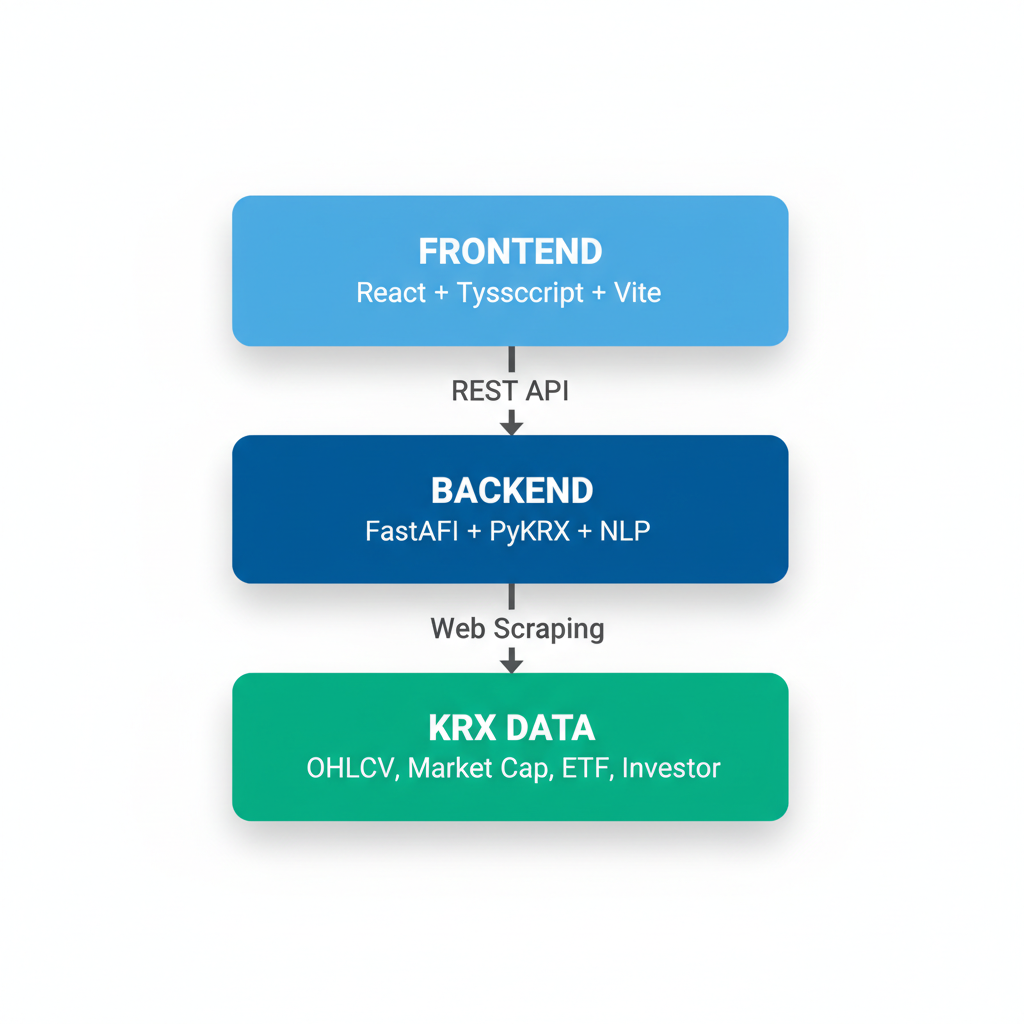
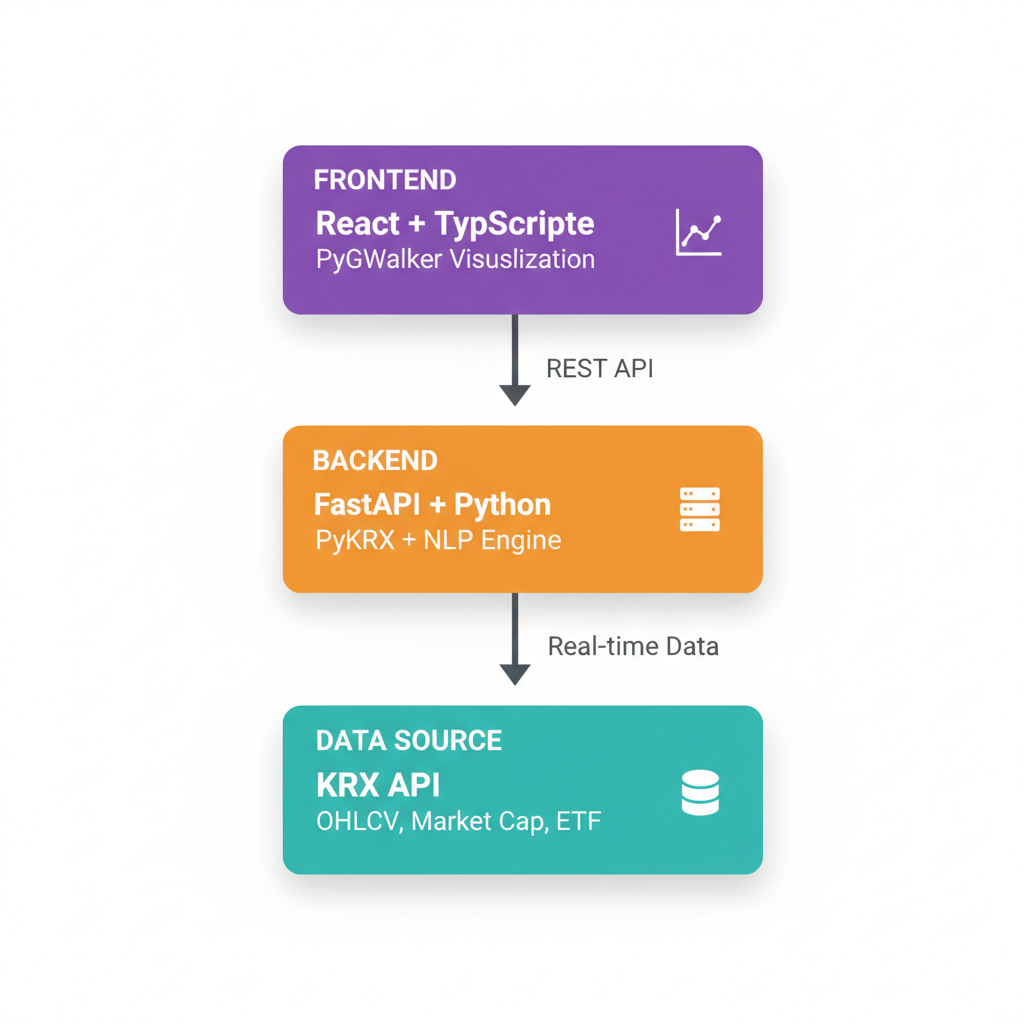
refactor(docs): redesign all diagrams to match actual project UI
- Hero banner: violet-to-orange gradient with Korean subtitle
- Architecture: correct tech stack (React+PyGWalker, FastAPI+PyKRX)
- Data flow: NLP query → PyKRX → visualization pipeline
- UI mockup: light theme with violet accents, bar chart, data table
- Features grid: 6 cards matching actual project features

Prompts updated to use scene descriptions (Google best practice)
for improved text rendering quality with Gemini 2.5 Flash Image.

diff --git a/scripts/generate-diagrams.py b/scripts/generate-diagrams.py
@@ -1,7 +1,13 @@
 #!/usr/bin/env python3
 """
 KRX Data Explorer - 고품질 다이어그램 생성
-Gemini 2.5 Flash API 사용 (텍스트 렌더링 최적화)
+Gemini 2.5 Flash Image API 사용 (텍스트 렌더링 최적화)
+
+실제 프로젝트 UI 반영:
+- PyGWalker (Graphic Walker) 기반 데이터 시각화
+- 바이올렛/오렌지 테마 (violet-50, amber-500)
+- AI 자연어 질의 기능
+- KRX 주식 데이터 실시간 분석
 
 참고: https://developers.googleblog.com/en/how-to-prompt-gemini-2-5-flash-image-generation-for-the-best-results/
 """
@@ -11,11 +17,11 @@ import base64
 import os
 from pathlib import Path
 
-# Gemini API 설정 - 2.5 Flash로 업그레이드 (텍스트 렌더링 향상)
+# Gemini API 설정 - 2.5 Flash Image (텍스트 렌더링 향상)
 genai.configure(api_key=os.environ.get('GEMINI_API_KEY'))
 
 model = genai.GenerativeModel(
-    model_name='gemini-2.5-flash-image',  # 이미지 생성 전용 모델
+    model_name='gemini-2.5-flash-image',
     generation_config={
         'response_modalities': ['TEXT', 'IMAGE']
     }
@@ -39,21 +45,23 @@ def save_image(response, output_path):
     return False
 
 # ============================================================
-# 1. 히어로 배너 (프로젝트 소개) - Gemini로 생성
+# 1. 히어로 배너 (프로젝트 소개)
 # ============================================================
 print("1. Generating hero banner...")
 hero_prompt = """
-Create a professional, modern hero banner for a fintech data platform.
+Create a premium, modern hero banner for a Korean stock market data visualization platform.
 
-Scene description: A sleek, dark-themed financial dashboard interface floating in a deep navy blue digital space. The background has a subtle gradient from dark navy (#0a1628) to slightly lighter navy (#1a2744). Abstract geometric patterns of hexagons and circuit-like lines glow softly in electric blue (#3b82f6) in the background.
+Scene description: A wide landscape banner with a sophisticated gradient background flowing from soft lavender-violet (#8b5cf6) on the left to warm amber-orange (#f59e0b) on the right. The gradient should be smooth and elegant, reminiscent of a sunset over a financial district.
 
-In the center, display the title "KRX Data Explorer" in large, bold, clean white sans-serif typography (similar to Inter or SF Pro Display font). Below it, show the subtitle "Korea Exchange Stock Data Platform" in smaller, light gray text.
+In the center-left area, display the main title "KRX Data Explorer" in large, bold, crisp white sans-serif typography. The text should be perfectly sharp and readable, styled like Inter or Pretendard font. Below the main title, show the Korean subtitle "한국거래소 주식 데이터 시각화 플랫폼" in smaller light gray text.
 
-On the left side, include a simplified green candlestick chart icon showing 4 bars going upward. On the right side, show a minimal pie chart icon in teal color.
+On the right side of the banner, show a stylized preview of a data visualization dashboard: a floating glass-morphism card with a simple bar chart showing 5 colorful bars (orange, violet, teal, blue, green) representing different stock metrics. The chart should have clean gridlines and look professional.
 
-The overall style should be: minimalist, professional, fintech-inspired, with a Bloomberg Terminal or trading platform aesthetic. High contrast between text and background for maximum readability.
+Include subtle decorative elements: small floating sparkle icons near the title (representing AI features), and faint hexagonal patterns in the background suggesting technology and data.
 
-Dimensions: 1920x600 pixels, landscape orientation.
+Overall aesthetic: Premium SaaS product, modern fintech, clean and professional. High contrast for text readability. No cluttered elements.
+
+Dimensions: 1920x500 pixels, wide landscape format.
 """
 
 try:
@@ -63,32 +71,38 @@ except Exception as e:
     print(f"  [ERROR] {e}")
 
 # ============================================================
-# 2. 시스템 아키텍처 다이어그램 - Gemini로 생성
+# 2. 시스템 아키텍처 다이어그램
 # ============================================================
 print("2. Generating architecture diagram...")
 arch_prompt = """
-Create a clean, professional system architecture diagram with three horizontal layers.
+Create a clean, professional system architecture diagram showing the data flow of a stock market visualization platform.
 
-Scene description: A vertical stack of three rounded rectangular boxes on a pure white background, connected by downward-pointing arrows.
+Scene description: A diagram on a clean white background with three main sections connected by arrows, arranged vertically.
 
-TOP BOX (Sky Blue #3b82f6):
-- Contains bold white text "FRONTEND"
-- Below it in smaller white text: "React + TypeScript + Vite"
-- The box has subtle rounded corners and a light shadow
+TOP SECTION - "FRONTEND" (Violet #8b5cf6 rounded rectangle):
+- Inside the box, show text "React + TypeScript" in white
+- Below it: "PyGWalker Visualization" in smaller text
+- Include a small chart icon
 
-MIDDLE BOX (Deep Blue #1e40af):
-- Contains bold white text "BACKEND"
-- Below it in smaller white text: "FastAPI + PyKRX + NLP"
-- Connected from top box with a dark gray arrow labeled "REST API"
+MIDDLE SECTION - "BACKEND" (Orange #f59e0b rounded rectangle):
+- Inside the box, show text "FastAPI + Python" in white
+- Below it: "PyKRX + NLP Engine" in smaller text
+- Include a small server icon
 
-BOTTOM BOX (Emerald Green #10b981):
-- Contains bold white text "KRX DATA"
-- Below it in smaller white text: "OHLCV, Market Cap, ETF, Investor"
-- Connected from middle box with a dark gray arrow labeled "Web Scraping"
+BOTTOM SECTION - "DATA SOURCE" (Teal #14b8a6 rounded rectangle):
+- Inside the box, show text "KRX API" in white
+- Below it: "OHLCV, Market Cap, ETF" in smaller text
+- Include a small database icon
 
-Style: Clean technical diagram, minimal design, sans-serif fonts only, high contrast text, professional documentation style. All text must be perfectly legible and sharp.
+ARROWS connecting the sections:
+- Arrow from Frontend to Backend labeled "REST API"
+- Arrow from Backend to Data Source labeled "Real-time Data"
 
-Dimensions: 1200x800 pixels.
+Each box should have subtle shadows and rounded corners (16px radius). The arrows should be dark gray (#374151) with clean arrowheads.
+
+Style: Technical documentation quality, minimalist design, Inter font, professional enterprise software aesthetic.
+
+Dimensions: 1000x700 pixels.
 """
 
 try:
@@ -98,26 +112,37 @@ except Exception as e:
     print(f"  [ERROR] {e}")
 
 # ============================================================
-# 3. 데이터 플로우 다이어그램 - Gemini로 생성
+# 3. 데이터 플로우 다이어그램
 # ============================================================
 print("3. Generating data flow diagram...")
 flow_prompt = """
-Create a horizontal flowchart showing data flow from left to right.
+Create a horizontal data flow diagram showing how a user query becomes a visualization.
 
-Scene description: Five connected shapes arranged horizontally on a clean white background, with gray arrows pointing right between each shape.
+Scene description: Five connected elements arranged in a horizontal line on a clean white background, with arrows pointing from left to right.
 
 From left to right:
-1. BLUE CIRCLE - Contains text "User Query" in white
-2. PURPLE ROUNDED RECTANGLE - Contains text "NLP Classifier" in white
-3. ORANGE ROUNDED RECTANGLE - Contains text "API Router" in white
-4. GREEN ROUNDED RECTANGLE - Contains text "KRX Data" in white
-5. BLUE CIRCLE - Contains text "Response" in white
 
-Each shape has a subtle drop shadow. The arrows between shapes are gray (#6b7280) and have pointed tips.
+1. VIOLET CIRCLE (#8b5cf6): Contains a user icon and text "Query" below. This represents the user asking a question like "Show Samsung stock PER".
 
-Style: Professional flowchart, clean lines, bold sans-serif text, high readability, technical documentation aesthetic.
+2. ORANGE RECTANGLE (#f59e0b): Contains a brain/AI icon and text "NLP Engine" below. This parses the natural language query.
 
-Dimensions: 1400x400 pixels, wide landscape format.
+3. BLUE RECTANGLE (#3b82f6): Contains a server icon and text "PyKRX API" below. This fetches real-time stock data.
+
+4. TEAL RECTANGLE (#14b8a6): Contains a chart icon and text "Processing" below. This transforms data for visualization.
+
+5. GREEN CIRCLE (#10b981): Contains a checkmark icon and text "Chart" below. This shows the final visualization result.
+
+Each element should be clearly labeled with crisp, readable text. The connecting arrows should be gray (#6b7280) with smooth curves and pointed tips.
+
+Add small descriptive labels above each arrow:
+- "Natural Language" (between 1 and 2)
+- "Fetch Data" (between 2 and 3)
+- "Transform" (between 3 and 4)
+- "Render" (between 4 and 5)
+
+Style: Clean flowchart, professional documentation quality, high contrast text, Inter font.
+
+Dimensions: 1400x350 pixels, wide format.
 """
 
 try:
@@ -127,37 +152,46 @@ except Exception as e:
     print(f"  [ERROR] {e}")
 
 # ============================================================
-# 4. UI 목업 - Gemini로 생성 (다크 대시보드)
+# 4. UI 목업 (실제 프로젝트 UI 반영)
 # ============================================================
 print("4. Generating UI mockup...")
 ui_prompt = """
-Create a dark-themed financial dashboard UI mockup, similar to Bloomberg Terminal or TradingView.
+Create a realistic UI mockup of a Korean stock market data visualization dashboard.
 
-Scene description: A full dashboard interface with dark gray background (#111827).
+Scene description: A full-screen dashboard interface with a light theme and subtle violet accents.
 
-TOP NAVIGATION BAR (darker gray #0f172a):
-- Left: Logo text "KRX Explorer" in white
-- Center: A search input field with placeholder text
-- Right: A simple user avatar circle
+HEADER BAR (white with bottom border):
+- Left side: Orange icon (trending chart) + text "KRX Data Explorer" in bold black
+- Center: Connection status badge showing "PyKRX Connected" in green
+- Right side: "CSV Upload" button and settings icon
 
-LEFT SIDEBAR (dark gray #1f2937, narrow):
-- Menu items in vertical list, white text:
-  "Dashboard" (highlighted with blue accent)
-  "OHLCV Data"
-  "Market Cap"
-  "Investors"
-  "ETF/ETN"
+MAIN CONTENT AREA (light gray #f8fafc background):
 
-MAIN CONTENT AREA:
-- Header showing "Samsung Electronics" in large white text
-- Stock code "005930" in gray
-- Large green price "71,200" with up arrow and "+2.3%"
-- Below: Four metric cards in a row showing:
-  "PER 12.5" | "PBR 1.2" | "Volume 15M" | "MCap 450T"
-- Below cards: A simple green line chart on dark background
-- Bottom: A data table with 5 rows of stock data
+TOP SECTION - AI Query Box:
+- A rounded input box with violet border
+- Placeholder text "Ask in Korean: Show Samsung PER chart"
+- Send button with violet background
+- Small "AI" badge with sparkle icon
 
-Style: Modern fintech dashboard, dark mode, clean typography, professional trading platform aesthetic. All text must be sharp and perfectly readable.
+VISUALIZATION AREA (white card with shadow):
+- A professional bar chart showing Korean stock data:
+  - X-axis: Company names in Korean (Samsung, SK Hynix, NAVER, Hyundai, LG Chem)
+  - Y-axis: Values from 0 to 500,000
+  - Colorful bars (violet, orange, teal, blue, green)
+  - Title: "Stock Price Comparison" in Korean
+  - Clean gridlines and axis labels
+
+BOTTOM SECTION - Data Table:
+- A clean data table with columns:
+  - Stock Code | Company | Price | Change% | Volume
+- 5 rows of sample data
+- Alternating row colors (white and light gray)
+
+RIGHT PANEL (floating):
+- PyGWalker toolbar with chart type icons
+- Filter options
+
+Style: Modern SaaS dashboard, clean typography, subtle shadows, professional fintech aesthetic. The UI should look like a real production application, not a mockup sketch.
 
 Dimensions: 1920x1080 pixels.
 """
@@ -169,35 +203,57 @@ except Exception as e:
     print(f"  [ERROR] {e}")
 
 # ============================================================
-# 5. 기능 그리드 - Gemini로 생성
+# 5. 기능 그리드 (Features Grid)
 # ============================================================
 print("5. Generating features grid...")
 features_prompt = """
-Create a feature showcase grid with 6 feature cards arranged in 2 rows of 3.
+Create a professional feature showcase grid with 6 cards arranged in 2 rows of 3.
 
-Scene description: Six white cards with rounded corners arranged in a grid pattern on a light gray (#f1f5f9) background.
+Scene description: Six feature cards on a subtle gradient background (white to light violet #faf5ff).
 
-ROW 1 (left to right):
-- Card 1: Blue circle icon, text "OHLCV Data" below, subtitle "Price & Volume"
-- Card 2: Green circle icon, text "Market Cap" below, subtitle "Company Size"
-- Card 3: Purple circle icon, text "Investor Flow" below, subtitle "Buy/Sell Trends"
+ROW 1:
+Card 1 (Violet icon #8b5cf6):
+- Icon: Bar chart
+- Title: "OHLCV Data"
+- Subtitle: "Real-time price & volume"
 
-ROW 2 (left to right):
-- Card 4: Orange circle icon, text "NL Query" below, subtitle "Ask in Korean"
-- Card 5: Teal circle icon, text "ETF/ETN" below, subtitle "Derivatives"
-- Card 6: Red circle icon, text "Search" below, subtitle "Find Stocks"
+Card 2 (Orange icon #f59e0b):
+- Icon: Pie chart
+- Title: "Market Cap"
+- Subtitle: "Company valuations"
 
-Each card has:
-- White background
-- Subtle shadow
+Card 3 (Teal icon #14b8a6):
+- Icon: Users
+- Title: "Investor Flow"
+- Subtitle: "Institution vs retail"
+
+ROW 2:
+Card 4 (Blue icon #3b82f6):
+- Icon: Sparkle/AI
+- Title: "NL Query"
+- Subtitle: "Ask in Korean"
+
+Card 5 (Green icon #10b981):
+- Icon: Layers
+- Title: "ETF/ETN"
+- Subtitle: "Derivative products"
+
+Card 6 (Rose icon #f43f5e):
+- Icon: Search
+- Title: "Visual Explorer"
+- Subtitle: "PyGWalker charts"
+
+Each card should have:
+- White background with subtle shadow
 - Rounded corners (16px)
-- Simple geometric icon (filled circle in the specified color)
-- Bold feature name
-- Lighter gray subtitle text
+- A colored circular icon at the top
+- Bold title text below the icon
+- Lighter gray subtitle
+- Professional, clean typography
 
-Style: Clean, modern card grid, minimal icons, professional SaaS marketing style. All text perfectly sharp and readable.
+Style: SaaS marketing page, modern card design, consistent spacing, Inter font family.
 
-Dimensions: 1200x700 pixels.
+Dimensions: 1200x600 pixels.
 """
 
 try:
